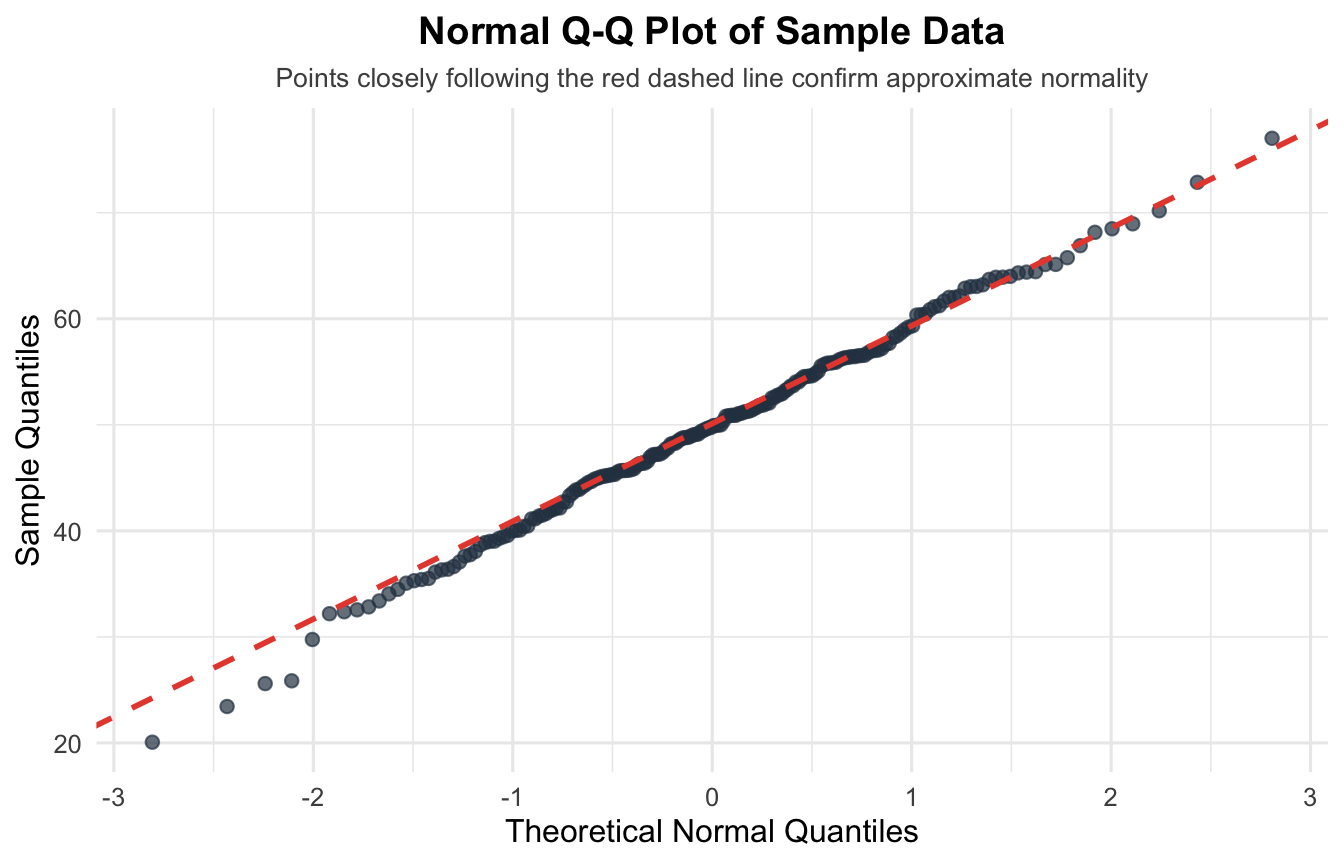
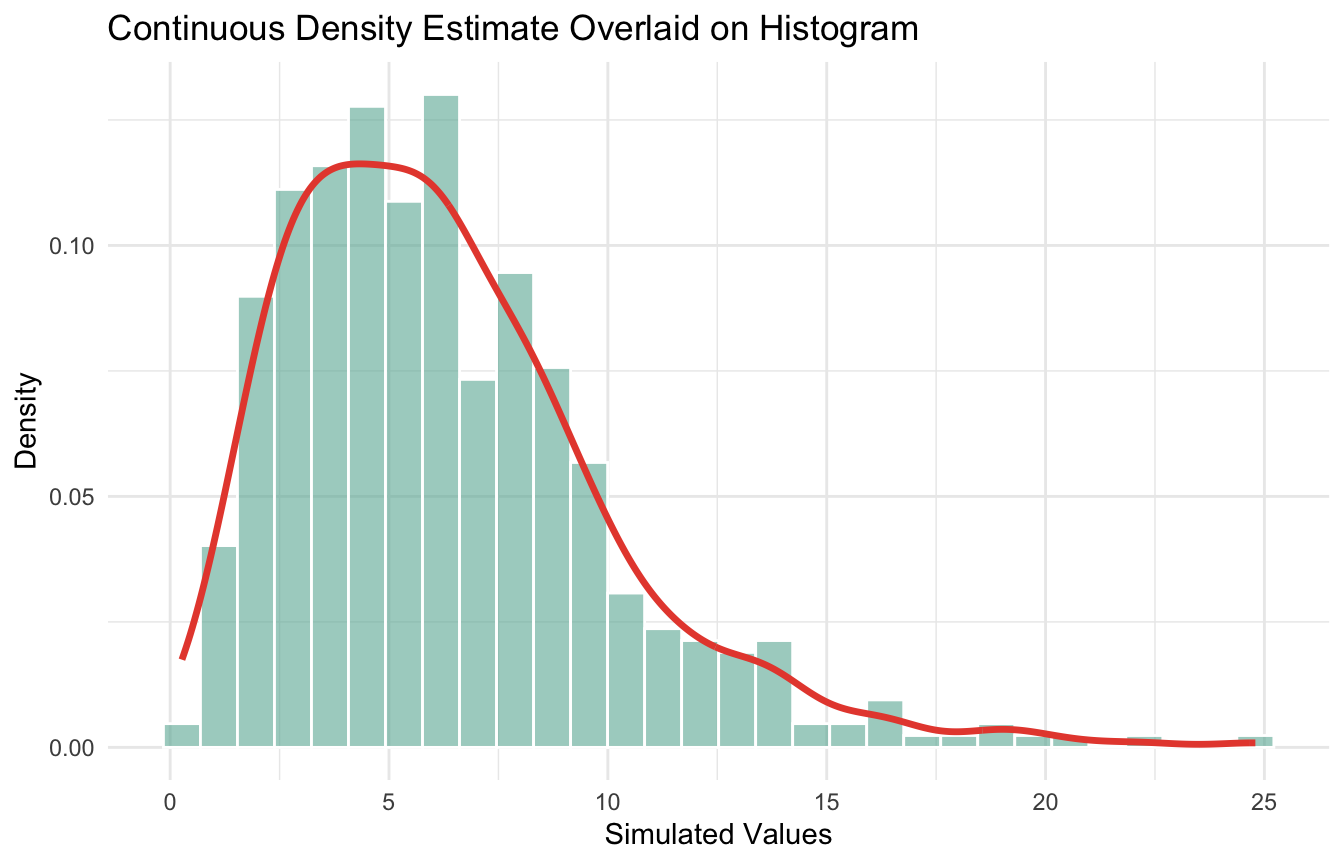
updated desc stat

diff --git a/_site/posts/descriptives/index.html b/_site/posts/descriptives/index.html
@@ -7,9 +7,9 @@
 <meta name="viewport" content="width=device-width, initial-scale=1.0, user-scalable=yes">
 
 <meta name="author" content="Haseeb Mahmud">
-<meta name="dcterms.date" content="2026-09-26">
+<meta name="dcterms.date" content="2026-09-28">
 
-<title>Advanced Data Science - Hypothesis Testing</title>
+<title>Advanced Data Science - Descriptive Statistics</title>
 <style>
 code{white-space: pre-wrap;}
 span.smallcaps{font-variant: small-caps;}
@@ -144,7 +144,7 @@ window.Quarto = {
 <header id="title-block-header" class="quarto-title-block default page-columns page-full">
   <div class="quarto-title-banner page-columns page-full">
     <div class="quarto-title column-body">
-      <h1 class="title">Descriptive statistics</h1>
+      <h1 class="title">Descriptive Statistics</h1>
                                 <div class="quarto-categories">
                 <div class="quarto-category">Statistics</div>
               </div>
@@ -164,7 +164,7 @@ window.Quarto = {
       <div>
       <div class="quarto-title-meta-heading">Published</div>
       <div class="quarto-title-meta-contents">
-        <p class="date">September 26, 2026</p>
+        <p class="date">September 28, 2026</p>
       </div>
     </div>
     
@@ -220,7 +220,7 @@ window.Quarto = {
   <li><a href="#barplot" id="toc-barplot" class="nav-link" data-scroll-target="#barplot">Barplot</a></li>
   <li><a href="#time-series-plot" id="toc-time-series-plot" class="nav-link" data-scroll-target="#time-series-plot">Time series plot</a></li>
   <li><a href="#stacked-bar-plot" id="toc-stacked-bar-plot" class="nav-link" data-scroll-target="#stacked-bar-plot">Stacked bar plot</a></li>
-  <li><a href="#histogram" id="toc-histogram" class="nav-link" data-scroll-target="#histogram">Histogram</a></li>
+  <li><a href="#histogram-and-density-plot" id="toc-histogram-and-density-plot" class="nav-link" data-scroll-target="#histogram-and-density-plot">Histogram and density plot</a></li>
   <li><a href="#q-q-plot" id="toc-q-q-plot" class="nav-link" data-scroll-target="#q-q-plot">Q-Q plot</a></li>
   <li><a href="#box-whisker-plot" id="toc-box-whisker-plot" class="nav-link" data-scroll-target="#box-whisker-plot">Box whisker plot</a>
   <ul class="collapse">
@@ -601,9 +601,9 @@ Cov (x, y) = \frac{\sum(x_i - \bar{x})(y_i - \bar{y})}{n}
 </div>
 </div>
 </section>
-<section id="histogram" class="level2">
-<h2 class="anchored" data-anchor-id="histogram">Histogram</h2>
-<p><strong>Definition:</strong> A <strong>histogram</strong> is a graphical display of the probability distribution of a continuous quantitative variable. The range of values is divided into a series of contiguous, non-overlapping intervals called <strong>bins</strong>. The height of each rectangle corresponds to the frequency or density of data points falling into that bin.</p>
+<section id="histogram-and-density-plot" class="level2">
+<h2 class="anchored" data-anchor-id="histogram-and-density-plot">Histogram and density plot</h2>
+<p>A <strong>histogram</strong> is a graphical display of the probability distribution of a continuous quantitative variable. The range of values is divided into a series of contiguous, non-overlapping intervals called <strong>bins</strong>. The height of each rectangle corresponds to the frequency or density of data points falling into that bin.</p>
 <div class="cell" data-layout-align="center">
 <div class="cell-output-display">
 <div class="quarto-figure quarto-figure-center">
@@ -613,15 +613,26 @@ Cov (x, y) = \frac{\sum(x_i - \bar{x})(y_i - \bar{y})}{n}
 </div>
 </div>
 </div>
-</section>
-<section id="q-q-plot" class="level2">
-<h2 class="anchored" data-anchor-id="q-q-plot">Q-Q plot</h2>
-<p><strong>Definition:</strong> A <strong>Quantile-Quantile (Q-Q) plot</strong> is a diagnostic scatter plot used to assess whether an empirical sample dataset originates from a theoretical reference distribution (most commonly the Normal Distribution). It plots the empirical sample quantiles on the vertical axis against the theoretical quantiles on the horizontal axis. If the dataset follows the assumed distribution, the points will fall closely along the 45-degree reference line (<span class="math inline">\(y = x\)</span>).</p>
+<p>A histogram visualizes the frequency of data within pre-specified numerical ranges (“bins”). Because bin widths can heavily influence the visual output, histograms display a discrete representation of raw counts.</p>
+<p>A density plot is a smooth, continuous curve representing the probability density function (PDF) of the underlying data. It estimates the probability of a random variable falling within a given range, where the total area under the density curve equals <span class="math inline">\(1\)</span>.</p>
 <div class="cell" data-layout-align="center">
 <div class="cell-output-display">
 <div class="quarto-figure quarto-figure-center">
 <figure class="figure">
 <p><img src="index_files/figure-html/unnamed-chunk-5-1.png" class="img-fluid quarto-figure quarto-figure-center figure-img" width="672"></p>
+</figure>
+</div>
+</div>
+</div>
+</section>
+<section id="q-q-plot" class="level2">
+<h2 class="anchored" data-anchor-id="q-q-plot">Q-Q plot</h2>
+<p>A <strong>Quantile-Quantile (Q-Q) plot</strong> is a diagnostic scatter plot used to assess whether an empirical sample dataset originates from a theoretical reference distribution (most commonly the Normal Distribution). It plots the empirical sample quantiles on the vertical axis against the theoretical quantiles on the horizontal axis. If the dataset follows the assumed distribution, the points will fall closely along the 45-degree reference line (<span class="math inline">\(y = x\)</span>).</p>
+<div class="cell" data-layout-align="center">
+<div class="cell-output-display">
+<div class="quarto-figure quarto-figure-center">
+<figure class="figure">
+<p><img src="index_files/figure-html/unnamed-chunk-6-1.png" class="img-fluid quarto-figure quarto-figure-center figure-img" width="672"></p>
 </figure>
 </div>
 </div>
@@ -634,7 +645,7 @@ Cov (x, y) = \frac{\sum(x_i - \bar{x})(y_i - \bar{y})}{n}
 <div class="cell-output-display">
 <div class="quarto-figure quarto-figure-center">
 <figure class="figure">
-<p><img src="index_files/figure-html/unnamed-chunk-6-1.png" class="img-fluid quarto-figure quarto-figure-center figure-img" width="720"></p>
+<p><img src="index_files/figure-html/unnamed-chunk-7-1.png" class="img-fluid quarto-figure quarto-figure-center figure-img" width="720"></p>
 </figure>
 </div>
 </div>

diff --git a/_site/index.html b/_site/index.html
@@ -376,7 +376,7 @@ Haseeb Mahmud
 </a>
 </div>
 </div>
-<div class="quarto-post image-right" data-index="5" data-categories="Statistics" data-listing-date-sort="1790546400000" data-listing-file-modified-sort="1790667706711" data-listing-date-modified-sort="NaN" data-listing-reading-time-sort="20" data-listing-word-count-sort="3895">
+<div class="quarto-post image-right" data-index="5" data-categories="Statistics" data-listing-date-sort="1790546400000" data-listing-file-modified-sort="1790668249711" data-listing-date-modified-sort="NaN" data-listing-reading-time-sort="20" data-listing-word-count-sort="3895">
 <div class="thumbnail">
 <p><a href="./posts/descriptives/index.html" class="no-external"></a></p><a href="./posts/descriptives/index.html" class="no-external">
 <p><img src="./posts/descriptives/image.jpg" class="thumbnail-image"></p>
@@ -384,7 +384,7 @@ Haseeb Mahmud
 </div>
 <div class="body">
 <h3 class="no-anchor listing-title">
-<a href="./posts/descriptives/index.html" class="no-external">Hypothesis Testing</a>
+<a href="./posts/descriptives/index.html" class="no-external">Descriptive Statistics</a>
 </h3>
 <div class="listing-subtitle">
 <a href="./posts/descriptives/index.html" class="no-external"></a>
